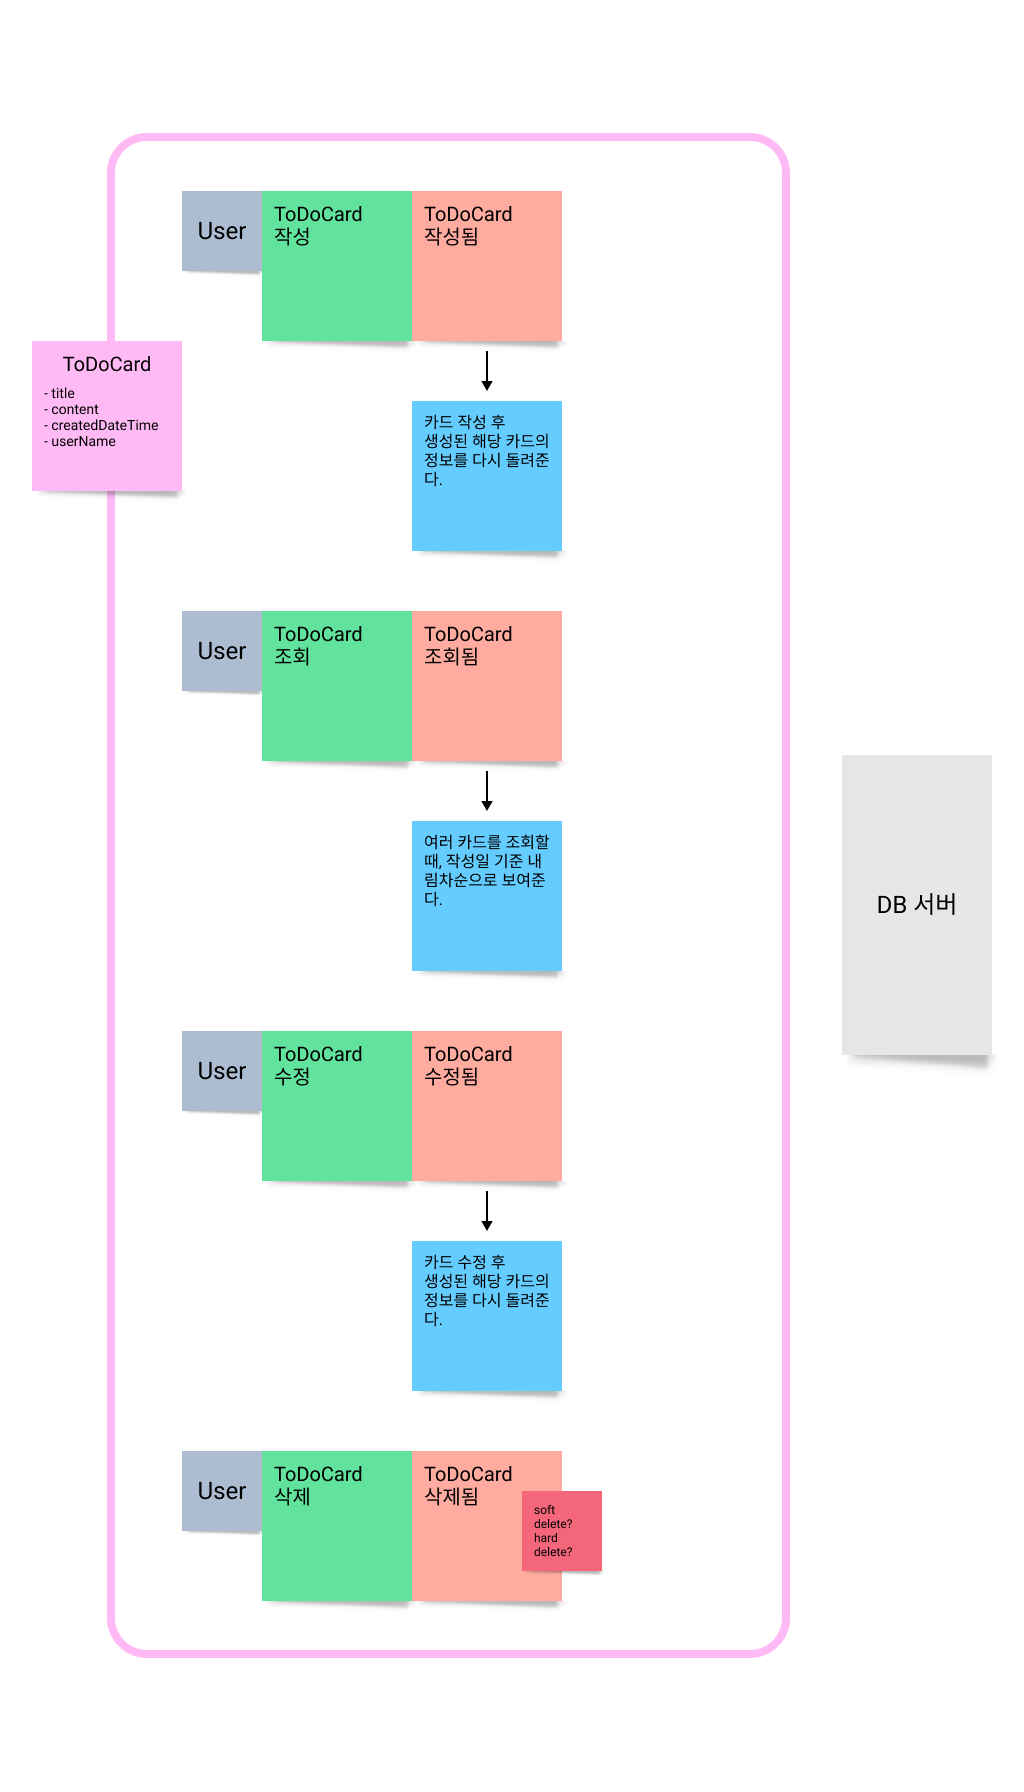
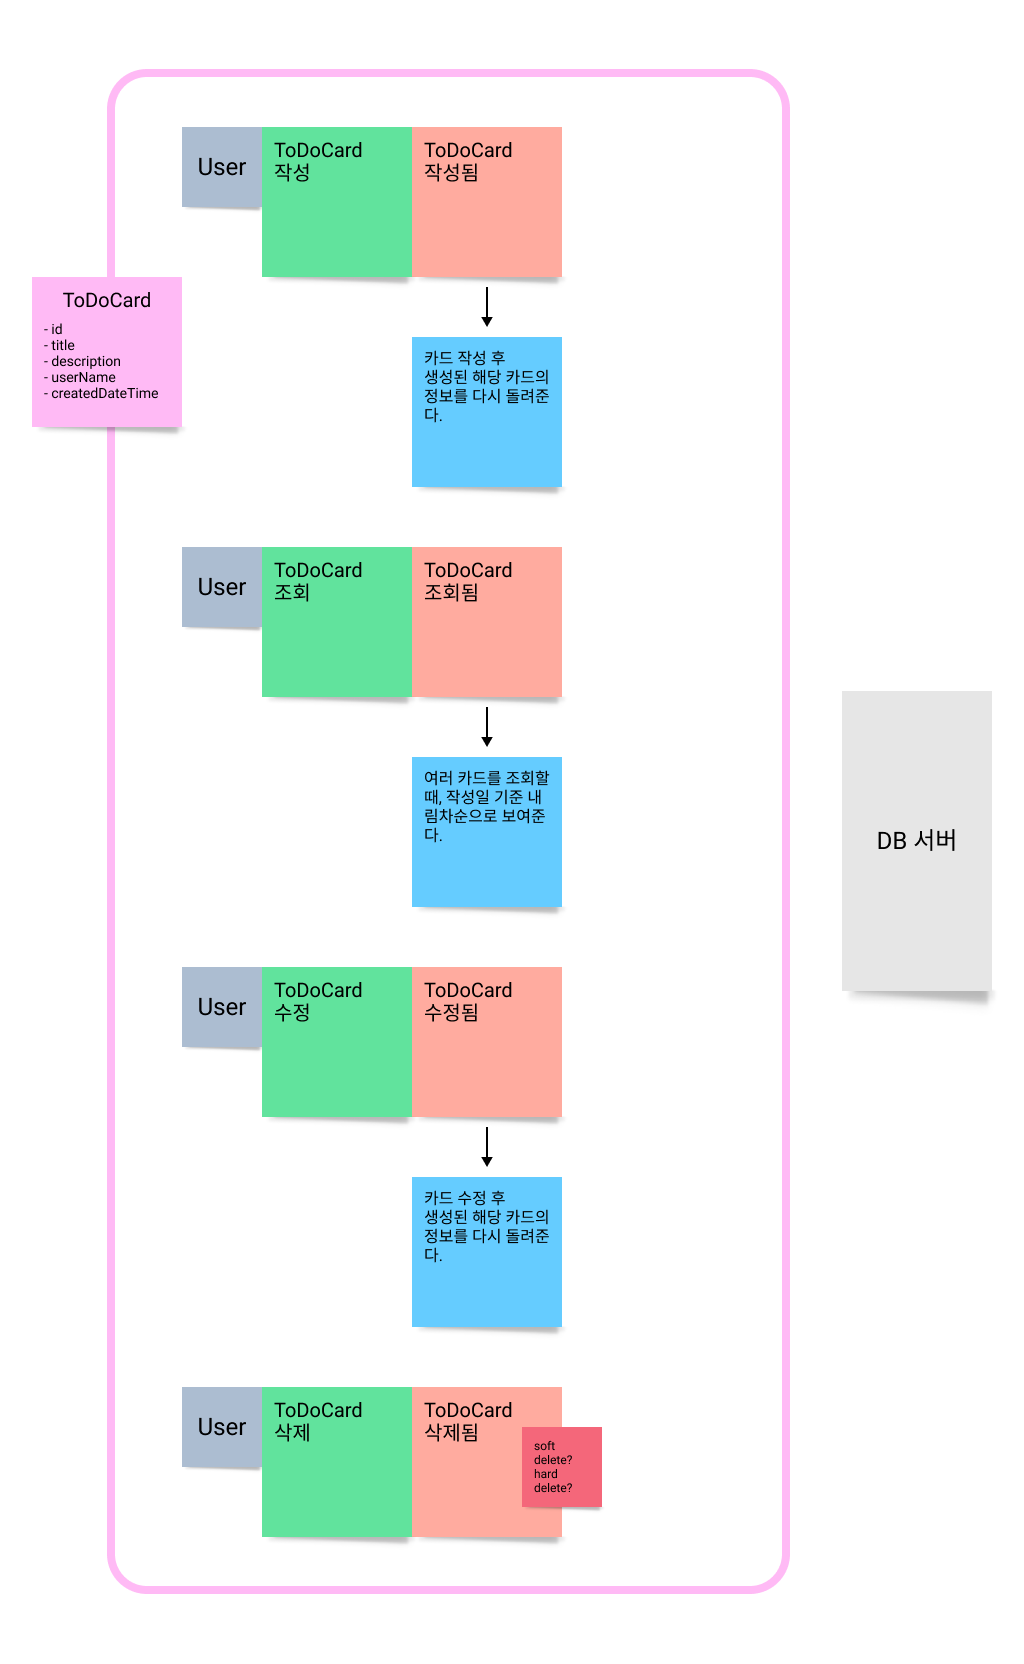
usecase, ERD, API 작성, domain 프로퍼티 이름 수정 반영
- 각종 문서 초안 작성
  - usecase
  - ERD
  - API
- domain 프로퍼티 이름 수정 반영: ToDoCard의 content → description

diff --git a/README.md b/README.md
@@ -34,11 +34,14 @@
 #### event storming <span>$\color{#dd6565}\-\ 초안(2023.12.27. 작성)$</span>
 <img src="week4/documents/to-do-app-event-storming-draft.png" alt="to-do-application event storming draft" width="512"/>
 
-#### use case diagram <span>$\color{#dd6565}\-\ TODO$</span>
+#### use case diagram <span>$\color{#dd6565}\-\ 초안(2023.12.27. 작성)$</span>
+<img src="week4/documents/to-do-app-usecase-draft.png" alt="to-do-application event storming draft" width="512"/>
 
-#### entity relationship diagram <span>$\color{#dd6565}\-\ TODO$</span>
+#### entity relationship diagram <span>$\color{#dd6565}\-\ 초안(2023.12.27. 작성)$</span>
+<img src="week4/documents/to-do-app-erd-draft.png" alt="to-do-application event storming draft" width="512"/>
 
-#### API 명세 <span>$\color{#dd6565}\-\ TODO$</span>
+#### API 명세 <span>$\color{#dd6565}\-\ 초안(2023.12.27. 작성)$</span>
+<img src="week4/documents/to-do-app-api-design-draft.png" alt="to-do-application event storming draft" width="512"/>
 
 #### API 및 비즈니스 로직 구현 → week4 모듈 코드 <span>$\color{#dd6565}\-\ TODO$</span>
 
